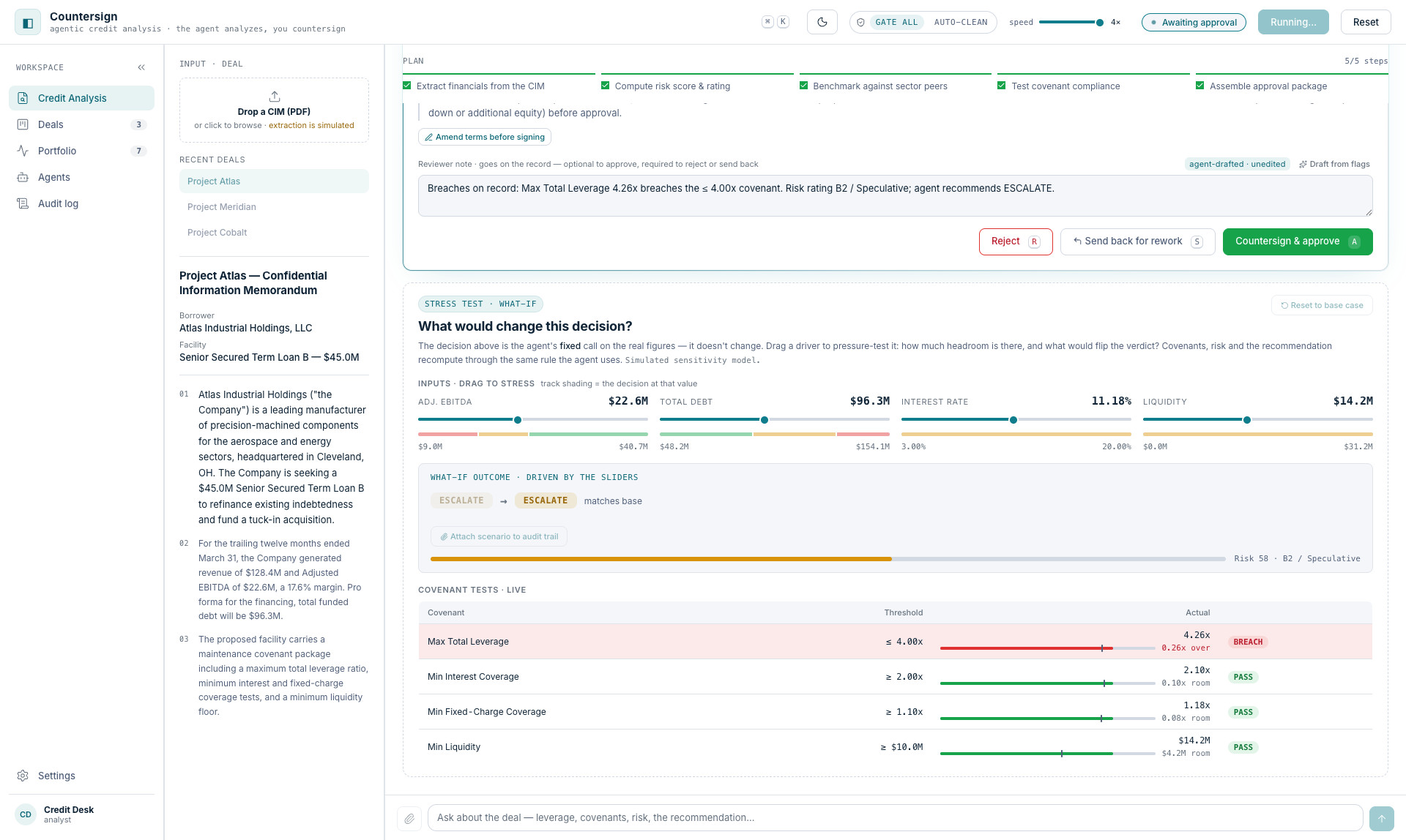
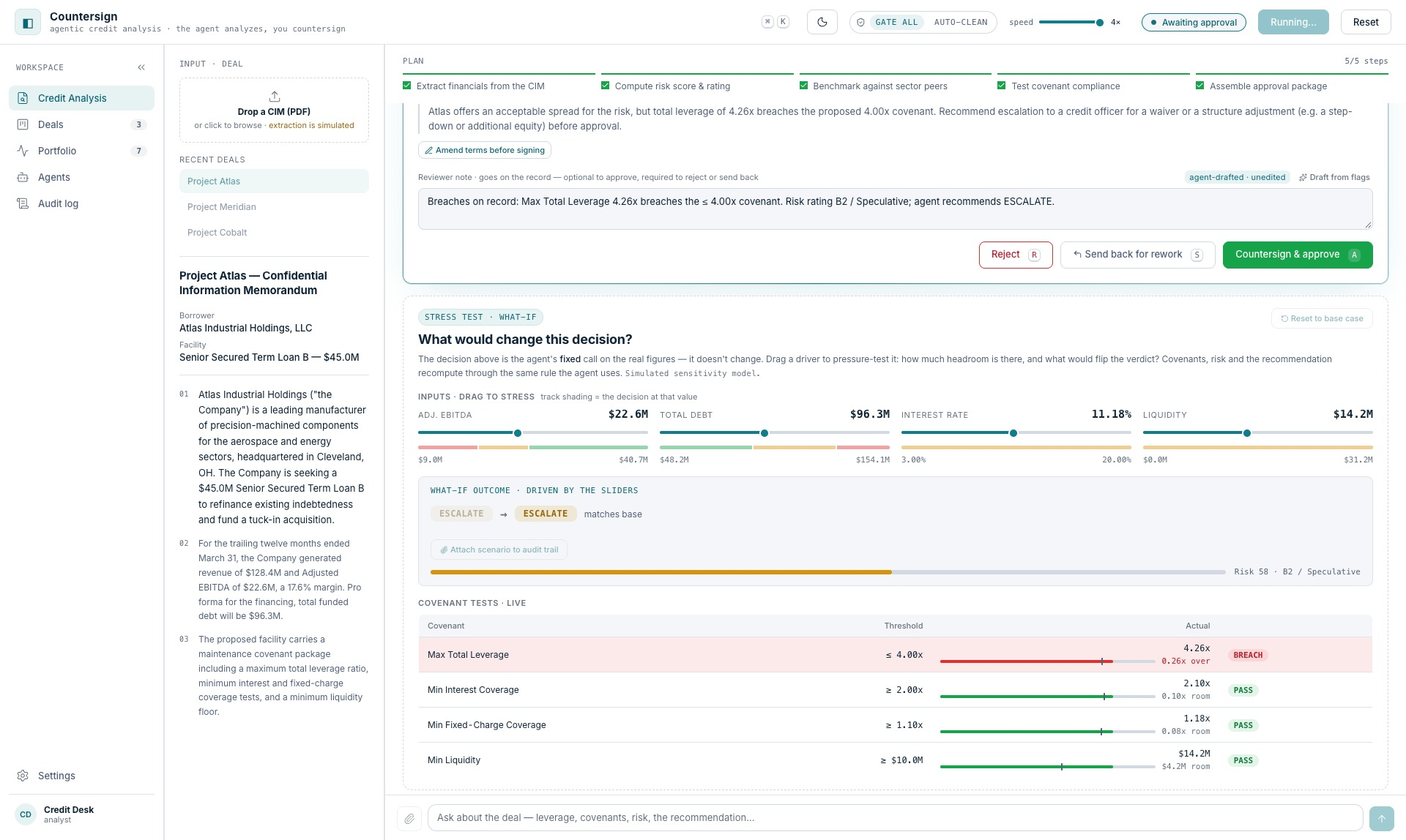
Countersign: the what-if still with nothing cut under the plan bar

diff --git a/countersign.html b/countersign.html
@@ -468,7 +468,7 @@
       <h4>What would change this decision?</h4>
       <p>The agent's call on the filed figures is fixed. The stress panel lets an analyst drag EBITDA, debt, rate, or liquidity and watch covenants, risk, and the recommendation recompute through the same decision rule the agent uses, so the what-if can never contradict the agent. The track under each slider is shaded with the decision at that value, every covenant test shows its distance to the threshold, and a scenario worth keeping attaches to the audit trail.</p>
     </div>
-    <img loading="lazy" decoding="async" width="1920" height="1148" src="images/countersign-whatif.jpg?v=5" alt="What-if stress test: flip-zone slider tracks shaded by decision, live covenant tests with headroom bars, attach scenario to audit trail" class="project-img-full" style="border-radius: var(--radius);">
+    <img loading="lazy" decoding="async" width="1920" height="1148" src="images/countersign-whatif.jpg?v=6" alt="What-if stress test: flip-zone slider tracks shaded by decision, live covenant tests with headroom bars, attach scenario to audit trail" class="project-img-full" style="border-radius: var(--radius);">
     <div class="hw-trade">
       <p class="hw-trade-k">The tradeoff</p>
       <div class="hw-trade-cols">

diff --git a/.claude/notes/countersign.md b/.claude/notes/countersign.md
@@ -2,4 +2,6 @@
 
 Moved word for word from CLAUDE.md on 2026-09-27 (the full original is `git show f7f52ee:CLAUDE.md`). CLAUDE.md holds the current state and the standing rules; this file is the history behind them. Entries keep their original order, and where two disagree, the later-dated one or the one marked SUPERSEDES wins. Add new entries at the top, directly under this paragraph.
 
+- **THE WHAT-IF SHOT WITH NOTHING CUT UNDER THE PLAN BAR (2026-10-03, per user, with a screenshot of the stress-test still: "the 'plan' header is not solid so it get cut", then "do not let any 'moving to top' elements overlapped with the plan header", "do not add the blur effect", "just let the white color stretch the whole pane which is longer than the widget", then "push"; countersign.html + `images/countersign-whatif.jpg`, and the product repo).** What he saw: at scroll-max (where the harness's `.whatif` align lands) the line "Atlas offers an acceptable spread..." sat right at the sticky bar's bottom edge, so only its commas and periods showed under the bar, and the gate's 1px ring showed beside the bar because the bar's white covered only the scroller's content box (24px gutters each side). TRIED AND DROPPED: moving the bar out of the scroller with a 20px mask fade (then a scroll-driven fade that was 0px at rest); he rejected the fade outright ("do not add the blur effect"), so the product is back to the sticky bar. SHIPPED in the product (credit-analysis-agent 35540e0, pushed): `.plan` gets `margin: 0 -24px 4px; padding: 16px 24px`, so its white spans the pane past the gutters; nothing else changed and the resting layout is identical (what-if top 386.25 and scroll max 2114 before and after). THE PHOTO is reframed 18px above scroll-max (scrollTop 2096): the bar's edge then falls in the empty band above "Atlas offers" (text line boxes measured with Range.getClientRects: rec row 82-97, the two lines 126-142 and 146-162 at max), both lines show whole, and the what-if card's foot sits at 1080, above the composer at 1086. Captured at 1920x1148 DPR 1 after deFocus, JPEG q92, `?v=6`. RULE for this app's captures: choose the scrollTop so the bar's bottom edge falls in a measured gap between text lines, never on one. The other Countersign stills were not re-audited for the same slice.
+
 - `countersign.html` — **Countersign case study (built 2026-08-21 unlinked per user "do not connect the thumbnail and just show me", then CONNECTED the same session per user "link").** Homewise-format study of the credit-analysis agent (github.com/chang627627/credit-analysis-agent — repo name stays `credit-analysis-agent`, product name is Countersign). The home card now links here instead of the live demo (homewise precedent: the demo CTA "Try it live" moved inside the study, end of Final Design); **the card is `project-card--desktop-only`, so the flip changes nothing on mobile**. Connected across all six surfaces together: card href, full og/canonical/CreativeWork meta (draft `noindex` removed), sitemap.xml, llms.txt, api/chat.js PORTFOLIO entry (chat.js needs the deploy), `/countersign` rewrite in vercel.json. Spine: Problem · Insight · Why this is hard · Solution · Process · Final Design (gate/what-if/portfolio/audit, ends on the live CTA) · Design System · Reflection — 8 side-nav links, no Collaboration (solo project). **Framing decisions:** the repo says it was built as interview practice for obin.ai; the page deliberately never names them (unaffiliated third party) and frames it as a personal prototype, with the mocked-deterministic-backend honesty stated in Process. Hero-sub opens with the card's first clause verbatim per the continuity rule. **Secondary research is verified-or-dropped:** the `.hw-stats` band (reused hw- classes, they are shared CSS) carries 1 day / 10 days (FDIC Small Business Lending Survey 2024, verified verbatim at fdic.gov) + 28.4% explainability concern (Wolters Kluwer Q1 2026, two corroborating citations); **a "78% of regulators" CCAF stat FAILED verification — the page the search summary cited does not contain it — and was dropped; treat search-summary stats as unverified until fetched at source.** **Insight section is built on a verified code fact:** the approval gate in runAgent.ts is UNCONDITIONAL (step (e) always runs), so even the agent's own "approve" is only a recommendation — the prose opens on that, and the one-line decide() rule renders verbatim in a `.cs-rule` panel above a **`.cs-flow` SVG decision tree** (site flow-chart grammar, self-contained inline attributes, eval-dot trio colors #22C55E/#EF4444/#EAB308, three exits converging on one "human gate" box; mobile = the documented flow-scroll strip, min-width 720px). An animated run-loop opener was built and CUT per user ("not clear" — the 900px card webp reads half-empty mid-run); Final Design opens on the gate still instead. **Artifacts are real captures** via the documented pipeline (clone → build → serve dist → puppeteer-core clicks through to each state at 1920×1148): gate, what-if, portfolio-with-escalations, audit, plus a light|dark app 2-up; cover = gate still composed on the card's mint plate hues with PIL. **The design-system board (`countersign-system.jpg`) is GENERATED FROM THE REPO'S OWN TOKENS:** a scratch board.html inlines the `:root`/`[data-theme=dark]` blocks extracted verbatim from the built stylesheet, swatches only ever reference `var(--token)`, hex labels fill from getComputedStyle at render time — regenerate by re-extracting if the palette changes. **Board lessons:** importing the app's full CSS collides with its own `.gate`/`.pill` classes (extract tokens only); per user the dark half sits on the LIGHT canvas (dark tokens scoped to the card grid via a re-selectored `.dark-tokens` copy, page chrome stays light) — and when tokens are scoped below body, any text relying on INHERITED color goes dark-on-dark; pin card text to `var(--text)` explicitly. Page-scoped styles (`.cs-rule`, `.cs-flow`) are inline in the page's head, so **style.css is untouched and no version bump was needed (still v=249)**. **Updated to the product's 2026-08-30 build (per user "countersign get updated. so you need to update the design to the latest version first"; HTML + images only, no version bump).** The repo gained three big commits that morning (gate rationale + rework loop + escalate routing + confidence rule + what-if on record; UI elevation pass; a "2026 conventions" wave: intent gate, folding reasoning, amendments, autonomy dial), so ALL page captures were re-taken at HEAD via the documented pipeline and the copy was trued up: the gate caption now names the FOUR verbs (countersign / amend / send back / reject) + the on-the-record reviewer note (required to refuse); a **new 5th deliverable "The third verb: send it back" (`countersign-rework.jpg`)** shows the revision-2 gate with the Structuring Engine's $6M-equity cure and the reviewer thread (Cobalt honestly has no cure and the decline stands); the what-if caption gained flip-zone tracks + headroom bars + attach-to-audit; the Insight gained ONE sentence making the autonomy dial honest ("a person can grant a policy that lets a spotless first-pass approval sign itself after a visible countdown, autonomy countersigned in advance, never a default" — the loop STILL suspends unconditionally at HEAD, verified in runAgent.ts; auto-resolve is a UI-level policy with a fixed-1s-tick 5s countdown that any engagement holds); the Solution table's Plan and Countersign cells were rewritten for the intent gate + four verbs; the cs-flow SVG footer now says "until a person acts: countersign, amend, send back, or reject". Changed-in-place images carry `?v=2`. The theme 2-up is now the SAME screen (rev-2 gate) in both engines, which argues "one attribute apart" better than two different scrolls. **The pre-update captures are PRESERVED as `countersign-x-{gate,whatif,instant,clean,outcome}.jpg`** — they are the deck's tradeoff evidence (the old state = commit 40c3b7d, the June build, which IS what production served until 2026-08-30). **Capture-pipeline facts that will bite again:** the app's scroll container is `.workspace__scroll`, NOT `.stream` (a frame() helper scrolling .stream silently no-ops — the gate only looked framed because the app auto-scrolls to it); the speed control is `#speed` set via the native value setter + input event; the gate's auto-countersign countdown ticks at a FIXED 1s (not ÷speed), so it is capturable at any demo speed; and `countersign-loop.webp` (home card) was regenerated at HEAD — 44 frames @170ms, 900×538 (captured 1920×1147 then downscaled, the dimension-matching rule), plan review → run (the new peer-benchmarks step visible) → the three-verb gate, 429KB. api/chat.js's Countersign entry gained the new-capabilities sentence (needs deploy). **The five deck tradeoffs were then MIRRORED ONTO THE PAGE (same session, per user "I need to add the tradeoff into the study case too" — the homewise 2026-08-11 precedent):** five `.hw-trade` blocks in the deck's exact grammar (shared hw- CSS, ZERO new styles, no version bump), column headers **"The version that shipped first" ✕ / "Why it changed" ✓ — NOT homewise's "The version I didn't ship", because Countersign's old state genuinely shipped** (live for ~2.5 months). This required TWO new deliverables so all five beats have a home — "Nothing runs until you approve the plan" (`countersign-plan-review.jpg`) and "Autonomy is a policy, not a promise" (`countersign-autonomy.jpg`) — making the Final Design order: gate · rework · what-if · plan · autonomy · portfolio · audit · working-prototype CTA (the gate stays the section opener per the thesis-screen decision; the plan beat is framed as the gate's "twin at the other end of the run" so arriving after the gate cluster reads deliberately). Page ✓ texts were DEDUPED against their own captions (the deck's ✓ copy restated what the page captions above already say — the documented rename-vs-h2 redundancy class): the gate ✓ argues "a refusal cannot be blind" instead of re-saying the note-on-record, the what-if ✓ argues painting-turns-hunting-into-reading instead of re-listing zones/headroom/attach. Evidence images are the same `countersign-t-*` matched-aspect pairs the deck uses. Verified desktop + 375 (trade cols stack, zero overflow, zero broken images). **Design System section rebuilt as a PAGER (2026-08-30, per user "check the countersign repo... and visualize design system better", then "let user switch the pages... it is too much" and "right now it looks like whole study case like design system" — the compression is the user's call, do not re-stack the boards).** The product repo gained `DESIGN.md` (572-line awesome-design-md machine-readable spec) + `design-preview.html` (eb7a77a), so **the section's boards are now the REPO'S OWN preview page**, captured at 1920 and cropped per section into `countersign-ds-{color,type,components}.jpg` (crop bounds measured from the DOM's `.sechead` rects, not eyeballed) — recaptured at deviceScaleFactor 2 (2240px wide) when the deck adopted the same files, so both surfaces render retina-crisp. The section is: h2 + prose (spec sentence folded in) + **`.cs-tabs`/`.cs-panel` pager (page-scoped inline CSS + a tiny IIFE; chips use `aria-pressed` filter-chip semantics, NOT the ARIA tabs pattern — a tabs role without arrow-key management is worse than honest buttons; first panel is the JS-fails fallback; hidden panels' lazy images fetch on first open, so the Theming flip only downloads if opened)** + a two-CTA row (Read the design spec → the DESIGN.md blob URL, View the repository). Four pages: Color · Type · Components · Theming, one-line captions. **Theming is `countersign-flip.webp`** (490KB, 6 frames: the two ALIGNED rev-2 gate captures light/dark + 2×2 blend frames, 1.6s holds) with a **`<picture>` `prefers-reduced-motion` source falling back to the static `countersign-theme.jpg`** — media queries on `<source>` are the no-JS way to give reduced-motion users a still. A fuller build (4 stacked boards + an "A spec an agent can read" code-block beat) shipped for one preview round and was compressed away per the user; the DESIGN.md beat lives in prose + CTA now. `countersign-system.jpg` is page-orphaned (the deck still uses `countersign-system-light.jpg`). **The repo's `design-preview.html` had NO `<meta charset>` — mojibake (â€", Â·) when served without a header charset; fixed and pushed to the product repo as 99522d8 (2026-08-30, per user "push").** **A 2-agent adversarial verify caught 3 falsifiable ABSOLUTES, all contradicted by the shipped product's own CSS — the reusable lesson: never write "always/nothing" about a design system without checking the spec's own exceptions list:** "dashed always means sandbox" (the upload dropzone + empty-state strip are dashed non-sandboxes) → "marks a sandbox"; "teal always means live" (spec: live/active/yours + focus/provenance) → "means live, active, or yours"; "nothing keeps moving" (the gate runs an infinite live seam, the spec's carved genuinely-live-state exception) → the caption now carries the exception as the argument ("like the seam of a gate still waiting for you"). Plus: the flip's alt said "alternating", which is false for the reduced-motion static source — alts shared across `<picture>` sources must fit every source. style.css untouched, no version bump. **Re-synced to the product repo again 2026-08-30 (per user "countersign repo updated, check and update my portfolio") — this is the SECOND sync that day and it supersedes the capture set above.** The repo moved 99522d8 → **591ee19** in six commits: agent-drafted reviewer note + provenance, a portfolio dashboard pass, and a token-level "2026 pass" (weight ladder dropped a rung to 400/500/600, a 6-step type scale 11/12/13/15/18/22 with no half-pixels, `--text-faint` #8a96a8 → #66727f fixing a real AA failure, `--card-shadow: none` in light, radius ladder up to 12/8/6, a 4px spacing grid, tabular-nums everywhere, and PlanBar rebuilt from wizard chips into a segmented progress rail). Because that pass touched type/weight/spacing/radius APP-WIDE, **every screenshot on both surfaces was stale, not just the changed screens** — all were re-taken at HEAD. **Biggest find: `images/credit-agent-card.png`, the home card's static still (what mobile shows and what desktop shows before the loop arms), was still the JUNE pre-rename build — "Credit Analysis Agent" branding, two-verb gate — roughly 2.5 months stale and never caught, because the card's loop was regenerated twice while the still under it never was. Regenerate the still whenever the loop is regenerated; they are one asset pair.** New page deliverable, the 8th: **"The note it drafts, and never signs"** + `countersign-note.jpg` (the gate with a drafted note inserted and the `agent-drafted · unedited` provenance chip beside the draft control). **It deliberately gets NO `.hw-trade` block**: the rejected alternative (a pre-filled note) was never built, so there is no real built-then-removed screenshot for the ✕ column, and the documented provenance rule forbids a hypothetical ✕. **The note artifact is captured at REVISION 1 on purpose** — a rev-2 capture was built first and discarded because it shows the send-back flag and reviewer thread, leaking the Rework beat before the deck/page introduce it. Copy trued the same pass: the gate's note is "required to reject or send it back" (it was "required to refuse", which now understates it); the portfolio caption gained the cadence chip, the per-figure move since the last sweep, and covenant dots becoming slim status segments; the audit caption records whether a note was written or drafted; the design-system prose dropped "soft elevation instead of hard shadows" for the surface ladder (light cards now carry no drop shadow at all); the type panel gained "six sizes, three weights, nothing at 700 and no half-pixels". `api/chat.js`'s Countersign entry gained the draft/provenance and monitoring sentences (needs a deploy). Every changed asset carries `?v=3` across countersign.html, countersignslide.html and index.html. **PRODUCT-REPO BUG FOUND AND NOT PUSHED: `design-preview.html`'s Typography board `<code>` labels are stale at HEAD** (they still read 20/700, 18/700, 17/700, 14/700, 10.5/600, mono 10, 11.5, 10/700) while that same file's own `.t-*` CSS already renders the new tokens — the "sync design-preview to the shipped tokens" commit updated the CSS and missed the labels. The labels were corrected **locally in the scratch clone** so the captured board is truthful, and the fix is NOT in the repo; the same file's "Shape, line & depth" section is stale too (says 4 / 6 / 10 px against tokens 6 / 8 / 12) but is not inside any portfolio crop. Offer to push the one-file fix so the live preview page and the portfolio boards agree. **SAME-DAY FOLLOW-UP (user: "current version did not screenshot correctly") — the re-sync captures had a real framing defect, all re-shot and re-derived:** the capture harness framed by scrolling the gate to a FIXED viewport y (`frame('.gate', 445)`), which after the part-2 spacing changes left ELEMENTS SLICED MID-CARD directly under the sticky plan bar — the gate shot had flag banners cut in half, the rework shot had the restructure tiles' label row chopped so the numbers floated context-free, and the cover + home-card still inherited it since they are composed from the gate capture. A top-slice under a sticky bar reads as a broken screenshot; a bottom-edge slice reads as page continuation and is fine. **The durable recipe (now in scratch lib.mjs as `alignUnder`/`alignUnderText`): never frame at a fixed y — scroll so a chosen element's TOP sits ~12-14px below the sticky `.plan` bar's bottom, anchoring on a real boundary:** the last `.step__title` for gate/note/autonomy, the LAST `.art__head` containing "Proposed restructure" for rev-2 shots (index 0 is an earlier tool artifact — anchor by TEXT, not position), and `.whatif` for the stress panel (its align hits scroll-max, which happens to leave the gate's amend row + verbs complete above it — acceptable). Light/dark theme pairs framed by the same anchor come out scroll-identical, which the theme 2-up and flip.webp require. Then verify the target's rect fits: rev-2 gate is 699px tall (thread + restructure line), so anchoring its step title overflows the frame bottom by 27px and cuts the verbs — the tiles-head anchor is the one that fits. All 8 app captures + loop tail + cover + card still + theme/flip re-derived; deck object-positions retuned AGAIN per the documented gotcha (gate 86→71, note 86→74, rework 55→65, whatif-flip 85→74, autonomy 40→69, signature 23→58); changed assets bumped `?v=4`. **THEN a THIRD full re-screen the same session (user caught two more defects: "why is it purple" on plan-review, "why two borders" on the gate; then "re-screen every image") — root cause, and the biggest harness lesson of the day: BOTH the plan-review card and the gate call `ref.focus()` on mount, and puppeteer's SYNTHETIC clicks don't register as mouse modality, so Chrome matched `:focus-visible` and baked focus rings into the screenshots — the purple UA-default ring on `.planreview` (which defines no focus style) and the gate's own teal `outline-offset: 3px` ring stacking on its border as a double ring. Verified with a REAL trusted click in the browser pane: no rings — real users never see them, so blurring is honest. The harness now has `deFocus(p)` (blur activeElement + park the mouse at 4,4 + 250ms) called before EVERY screenshot — treat it as mandatory for ANY future capture of this app, and check any capture of any app that programmatically focuses on mount for the same artifact.** All 11 screens + all 5 t-*-new crops + loop + cover + card still + theme/flip re-derived at identical anchors (rects byte-matched the previous pass, so the deck object-positions did NOT need a third retune); everything bumped `?v=5`. Also on record: the product's PlanReview section has NO custom focus style, so a real KEYBOARD user gets the purple UA ring there instead of the app's teal focus language — a genuine product a11y-styling gap (the gate solved it with the `.gate:focus`/`.gate:focus-visible` pair); worth offering as a product-repo fix alongside the stale design-preview labels. **Deck is 39 slides as of the same day: the problem beat is TWO triad slides between The bet and Overview (per user, iterated within the hour: first "one slide talk about user problem and business problem" shipped as a 2-col slide, then "maybe two slides. each user problem and business split into three cards" replaced it — the 2-col variant with its inline 32px/21px scale-up is GONE).** Slide 3 "The user problem · The work is mechanical. The accountability is not" (cards: Days before judgment / A signature, not a submit / Checking costs as much as doing) and slide 4 "The business problem · The fast memo or the defensible record, never both" (cards: Slow answers lose borrowers / Black box speed is a liability / The record is the product), with paired s-bodies ("Read from the analyst's seat…" / "Read from the lender's ledger…"). All card claims ground in the already-verified FDIC/Wolters Kluwer facts or the case study's own thesis — no new stats. **Dedupe from the first iteration STANDS: slide 2 (The bet) no longer describes the mechanical memo work and keeps only the bet + the stat rows — the problem slides argue, the bet's rows prove.** All slide comments renumbered; deep links and index-keyed pins from 3 on shift by two vs the 37-slide deck (comment store verified empty, so nothing actually moved). **Deck is 40 slides as of 2026-08-31: homewise slide 9 ("I flipped the process and designed by building", the two flow charts) PORTED as slide 11, directly after "Behavior cannot be mocked" (per user "add homewise slide's page 9 to countersign because I may present them separately" — the same present-one-deck-alone motive as the method block, which now means BOTH the flipped-process slide and the method slides travel with every deck).** Solo adaptations, same discipline as the method-block port: "Align with PM" box → "Set the intent" and the body's PM/PRD beat → "a written intent, the repo's own backlog" (Countersign has no PM — an unedited port would hand an interviewer a false box); ✓ tag "Feedback from team and users" → "Feedback from every real run" (no user testing is claimed anywhere in this case study, fabrication ban); sage arrows/Build-box tint → teal (#0F7D8C arrows, box #E4EEF0/#9FC4CB/#0A4A54) per the sage-is-only-✓✕ accent rule; marker ids csArrowOldP/csArrowNewP. Ordering argument, deliberate: slide 10 is WHY building was necessary (behavior/pacing), slide 11 is HOW the build-first loop runs — the body avoids restating the mocked-backend beat. All `.flow*` CSS already existed in the deck from the transplant, so the insert is markup-only. If homewise's process slide copy changes, mirror here (adaptations aside). **PORTFOLIO-AUDIT PASS 2026-09-09 (per user "next study case" then "do"; countersign.html only, no style.css change, no version bump).** The audit scored the page 33/40 (the strongest writing and builder story on the site; the cost is density, 2,169 words, the first product still about six screens down, the loop-stops-for-a-person thesis stated eight times). Three fixes shipped: (1) WIDTH/HEIGHT ON ALL 23 IMAGES (the cover, 8 stills, 10 tradeoff crops, 4 pager images) plus `height: auto` on `.cs-panel img`; `.project-img-full` already had it from the PollenNav pass. Verified: document height identical before and after every image loads (15,079 both), the Final Design anchor stable at 4,254px. KNOWN AND ACCEPTED: the theming `<picture>` carries the animated flip's 1920x1148 while its reduced-motion still is 1920x570, so motion-reduced readers get a pre-load box of the flip's height on that hidden panel only; the intrinsic size takes over on load. (2) THE FIVE-ROW STAGE TABLE UNDER SOLUTION IS NOW A LOOP DIAGRAM (`.cs-loop.cs-flow`, inline SVG viewBox 960x178 in the decision tree's exact grammar: 168px boxes, 0.16 strokes, 15px labels, 12.5px #888 two-line captions, `csArrowLoop` marker, the Countersign node in the tree's gate styling, a dashed Observe-to-Act return arrow labelled "next tool call"); the `.cs-flow` class gives it the mobile scroll strip (svg min-width 720 inside a 327px strip, verified) and page-scoped `.cs-loop { margin-top: 32px }` / `.cs-loop + .project-section { margin-top: 96px }` reproduce the table's spacing. The heading "An agent loop you can watch" is finally followed by the loop; the first product still moved to ~4,480px. Process STAYS between Solution and Final Design on this page, deliberately unlike Homewise: here it is the honesty disclosure (mocked, deterministic backend, fictional numbers) that a reader needs BEFORE the stills. (3) LIGHTBOX: the Play page's markup + IIFE (markup before `.page-end`, script before the chat widget) pointed at `.hw-trade-shot img, img.project-img-full, .cs-panel img` with `cursor: zoom-in`, because the ten evidence crops are 462px wide with ~7px UI text and the stills and boards are 1920 to 2240px sources shown at 960. The dimension pass must skip the lightbox's own empty-src `<img>` (it aborted the first run). Verified 1440 and 375: zero overflow, zero console errors. RECORDED AND NOT ACTED ON (his call): the thesis repeats in the hero sub, a What-I-did bullet, Insight, the third hard card, Solution, the loop's last node, the Final Design opener and Reflection; the two longest captions ("The note it drafts" ~110 words, "The always-on half" ~90); Timeline reads "2026" where the other studies give a month range.**
